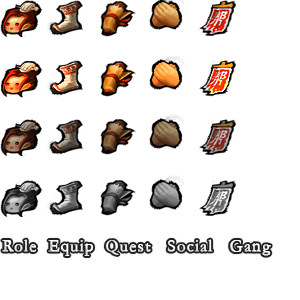
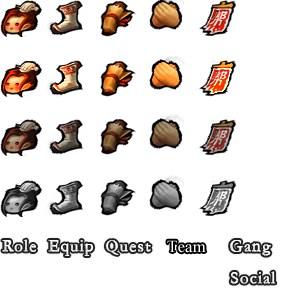
add team btn into nav bar

Changed region(s): [[0.54, 0.78, 0.72, 0.87], [0.75, 0.9, 0.93, 0.96]]

diff --git a/web-server/public/index.html b/web-server/public/index.html
@@ -65,6 +65,7 @@
     <script src="js/ui/equipmentsPanelView.js" type="text/javascript"></script>
     <script src="js/ui/bagPanelView.js" type="text/javascript"></script>
     <script src="js/ui/taskPanelView.js" type="text/javascript"></script>
+    <script src="js/ui/teamPanelView.js" type="text/javascript"></script>
     <script src="js/ui/dialogPanelView.js" type="text/javascript"></script>
     <script src="js/ui/playerDialogPanelView.js" type="text/javascript"></script>
     <script src="js/ui/applyJoinTeamPanelView.js" type="text/javascript"></script>
@@ -74,6 +75,7 @@
     <script src="js/handler/gameMsgHandler.js" type="text/javascript"></script>
     <script src="js/handler/npcHandler.js" type="text/javascript"></script>
     <script src="js/handler/playerHandler.js" type="text/javascript"></script>
+    <script src="js/handler/teamHandler.js" type="text/javascript"></script>
     <script src="js/handler/applyJoinTeamHandler.js" type="text/javascript"></script>
     <script src="js/handler/inviteJoinTeamHandler.js" type="text/javascript"></script>
     <script src="js/handler/taskHandler.js" type="text/javascript"></script>
@@ -253,6 +255,7 @@
             <li class="itm01"><span>Role</span></li>
             <li class="itm02"><span>Equip</span></li>
             <li class="itm03"><span>Quest</span><span class="flag"></span></li>
+            <li class="itm04"><span>Team</span></li>
           </ul>
         </nav>
 
@@ -397,6 +400,20 @@
           </section>
           <span class="u-close">close</span>
         </div>
+
+        <!-- 单击队伍按钮时弹出的对话框 -->
+        <div id="teamDialog" class="m-window" style="z-index:1000;display:none;">
+          <section class="wincnt">
+            <p>What do you wanna do?</p>
+            <div class="opt4team">
+              <span class="u-btn f-fl">Create</span>
+              <span class="u-btn f-fm">Leave</span>
+              <span class="u-btn f-fr">Disband</span>
+            </div>
+          </section>
+          <span class="u-close">Close</span>
+        </div>
+
         <!-- 单击其他角色时弹出的对话框 -->
         <div id="playerDialog" class="m-window" style="z-index:1000;display:none;">
           <section class="wincnt">

diff --git a/web-server/public/js/ui/teamPanelView.js b/web-server/public/js/ui/teamPanelView.js
@@ -1,0 +1,70 @@
+__resources__["/teamPanelView.js"] = {
+  meta: {
+    mimetype: "application/javascript"
+  },
+
+  data: function(exports, require, module, __filename, __dirname) {
+    var app = require('app');
+		var pomelo = window.pomelo;
+    var actionHandler = require('teamHandler');
+    var btns = require('consts').BtnAction4Player;
+		var TeamC = require('consts').Team;
+		var mainPanel = require('mainPanelView');
+    var $panel;
+
+    exports.init = function() {
+      $panel = $('#teamDialog');
+			var self = this;
+			$panel.find('.u-close').on('click', function() {
+				self.hide();
+      });
+    };
+
+		exports.hide = function() {
+			$panel.fadeOut(200);
+			mainPanel.removeNavSelect();
+		};
+
+    exports.show = function() {
+      var $opt = $panel.find('.wincnt .opt4team');
+			var $btnL = $opt.find('.f-fl').unbind();
+			var $btnM = $opt.find('.f-fm').unbind();
+      var $btnR = $opt.find('.f-fr').unbind();
+
+			var self = this;
+			$btnL.one('click', function() {
+				console.log('click createTeam ...');
+				actionHandler.exec(btns.CREATE_TEAM);
+				self.hide();
+			});
+
+			$btnM.one('click', function() {
+				console.log('click leaveTeam ...');
+				if (pomelo.teamId > TeamC.TEAM_ID_NONE) {
+					var params = {
+						playerId: pomelo.playerId,
+						teamId: pomelo.teamId
+					};
+					actionHandler.exec(btns.LEAVE_TEAM, params);
+				}
+				console.log('leaveTeam ~ pomelo.teamId = ', pomelo.teamId);
+				self.hide();
+			});
+
+			$btnR.one('click', function() {
+				console.log('click disbandTeam ...');
+				if (pomelo.teamId > TeamC.TEAM_ID_NONE && pomelo.isCaptain) {
+					var params = {
+						playerId: pomelo.playerId,
+						teamId: pomelo.teamId
+					};
+					actionHandler.exec(btns.DISBAND_TEAM, params);
+				}
+				console.log('disbandTeam ~ pomelo.teamId = ', pomelo.teamId);
+				self.hide();
+			});
+
+      $panel.show();
+    };
+  }
+};

diff --git a/web-server/public/js/ui/mainPanelView.js b/web-server/public/js/ui/mainPanelView.js
@@ -8,6 +8,7 @@ __resources__["/mainPanelView.js"] = {
 		var bagPanel = require('bagPanelView');
 		var equipmentsPanel = require('equipmentsPanelView');
 		var taskPanel = require('taskPanelView');
+		var teamPanel = require('teamPanelView');
 		var dialogPanel = require('dialogPanelView');
 		var playerDialogPanel = require('playerDialogPanelView');
 		var applyJoinTeamPanel = require('applyJoinTeamPanelView');
@@ -118,6 +119,7 @@ __resources__["/mainPanelView.js"] = {
 			equipmentsPanel.init();
 			bagPanel.init();
 			taskPanel.init();
+			teamPanel.init();
 			dialogPanel.init();
 			playerDialogPanel.init();
 			applyJoinTeamPanel.init();
@@ -149,10 +151,12 @@ __resources__["/mainPanelView.js"] = {
 					panel = bagPanel;
 				} else if ($this.hasClass('itm03')) {
 					panel = taskPanel;
+				} else if ($this.hasClass('itm04')) {
+					panel = teamPanel;
 				}
 
-				if (panel) {
-					//!!selected ? panel.show() : panel.hide();
+			if (panel) {
+					// !!selected ? panel.show() : panel.hide();
 					panel[ !! selected ? 'show' : 'hide'].call(panel);
 				}
 			});
@@ -162,6 +166,7 @@ __resources__["/mainPanelView.js"] = {
 			playerPanel.hide();
 			bagPanel.hide();
 			taskPanel.hide();
+			teamPanel.hide();
 			removeNavSelect();
 		};
 

diff --git a/web-server/public/js/handler/teamHandler.js b/web-server/public/js/handler/teamHandler.js
@@ -1,0 +1,49 @@
+__resources__["/teamHandler.js"] = {meta: {mimetype: "application/javascript"}, data: function(exports, require, module, __filename, __dirname) {
+	var pomelo = window.pomelo;
+	var btns = require('consts').BtnAction4Player;
+
+	/**
+	 * Execute player action
+	 */
+  function exec(type, params) {
+    switch (type) {
+			case btns.CREATE_TEAM: {
+				createTeam();
+				}
+				break;
+
+			case btns.LEAVE_TEAM: {
+				leaveTeam(params);
+				}
+				break;
+
+			case btns.DISBAND_TEAM: {
+				disbandTeam(params);
+				}
+				break;
+    }
+  }
+
+	/**
+	 * Create team action.
+	 */
+  function createTeam() {
+		pomelo.notify("area.teamHandler.createTeam");
+  }
+
+	/**
+	 * Leave team action.
+	 */
+  function leaveTeam(params) {
+		pomelo.notify("area.teamHandler.leaveTeam", params);
+  }
+
+	/**
+	 * Disband team action.
+	 */
+  function disbandTeam(params) {
+		pomelo.notify("area.teamHandler.disbandTeam", params);
+  }
+
+  exports.exec = exec;
+}};

diff --git a/web-server/public/js/config/consts.js b/web-server/public/js/config/consts.js
@@ -94,6 +94,9 @@ __resources__["/consts.js"] = {
       },
 
 			BtnAction4Player: {
+				CREATE_TEAM: 'CreateTeam',
+				LEAVE_TEAM: 'LeaveTeam',
+				DISBAND_TEAM: 'DisbandTeam',
 				ATTACK_PLAYER: 'AttackPlayer',
 				APPLY_JOIN_TEAM: 'ApplyJoinTeam',
 				INVITE_JOIN_TEAM: 'InviteJoinTeam',

diff --git a/web-server/public/css/client.css b/web-server/public/css/client.css
@@ -231,6 +231,12 @@ body .skill-box {
     margin: 76px auto;
 }
 
+/* teamDialog */
+#teamDialog .opt4team {
+    width: 243px;
+    margin: 76px auto;
+}
+
 .player .zj .wtype li {
   position: relative;
 }
